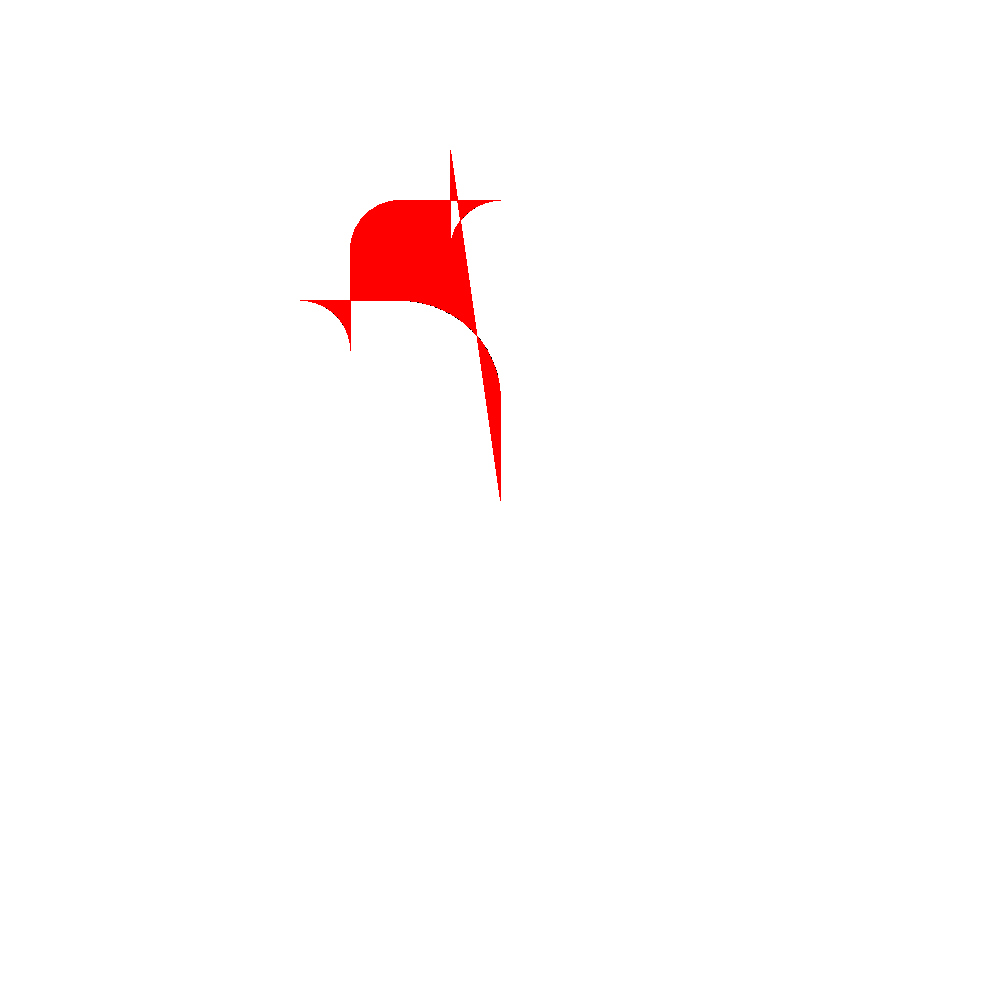
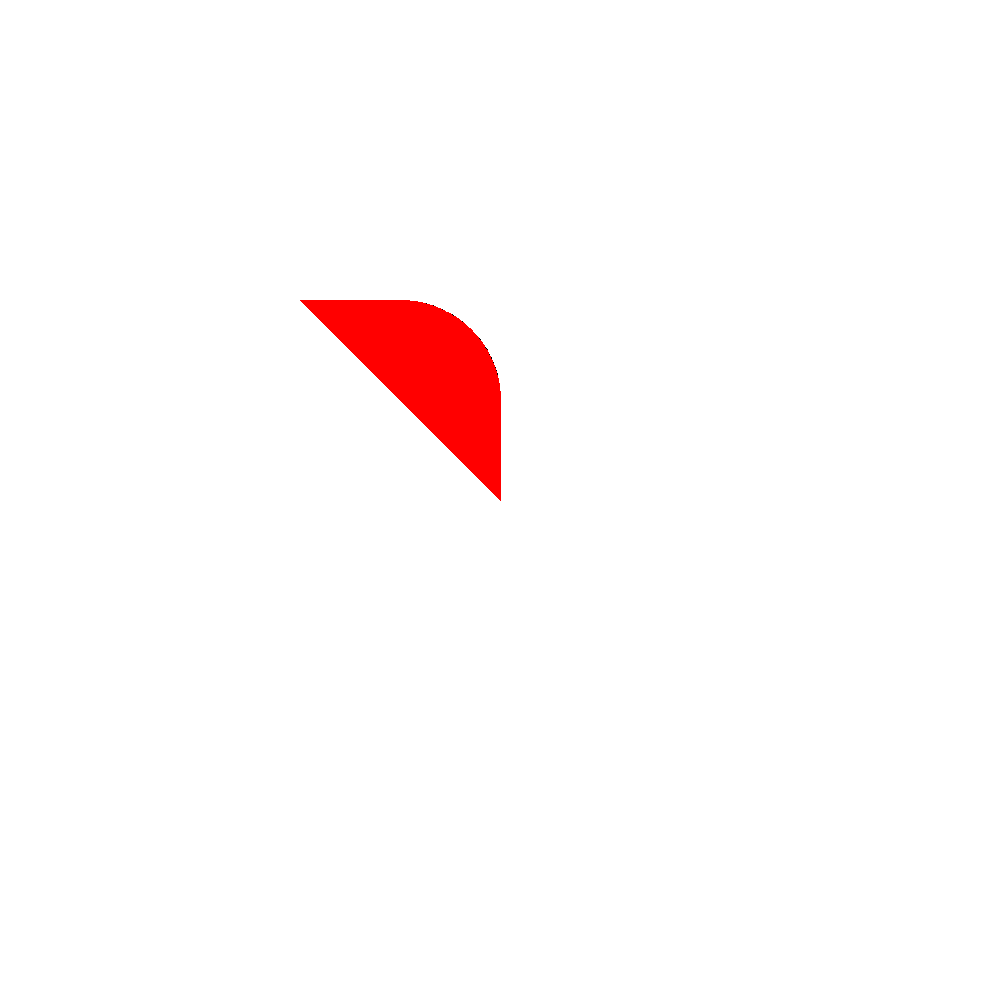
make test somewhat more comprehensible

Changed region(s): [[0.31, 0.155, 0.496, 0.496]]

diff --git a/tests/image_tests.py b/tests/image_tests.py
@@ -232,12 +232,6 @@ class BasicSquareTest(unittest.TestCase):
         t.fd(100)
         t.circle(100, 90)
         t.fd(100)
-        t.circle(50, -90)
-        t.fd(100)
-        t.circle(-50, 90)
-        t.fd(100)
-        t.circle(-50, -90)
-        t.fd(100)
         t.end_fill()
         self.assertImageEquals("test_img/partial_circle_fill.png")
 
